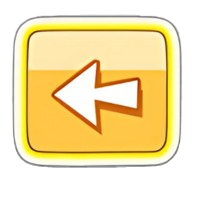
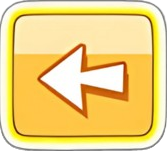
added menu screen

diff --git a/core/src/main/java/io/github/angry_birds/levelbg.java b/core/src/main/java/io/github/angry_birds/levelbg.java
@@ -1,92 +1,138 @@
 package io.github.angry_birds;
-
 import com.badlogic.gdx.Gdx;
 import com.badlogic.gdx.Screen;
 import com.badlogic.gdx.audio.Sound;
 import com.badlogic.gdx.graphics.GL20;
 import com.badlogic.gdx.graphics.OrthographicCamera;
 import com.badlogic.gdx.graphics.Texture;
+import com.badlogic.gdx.graphics.g2d.BitmapFont;
 import com.badlogic.gdx.graphics.g2d.SpriteBatch;
+import com.badlogic.gdx.graphics.g2d.TextureRegion;
+import com.badlogic.gdx.math.Vector3;
+import com.badlogic.gdx.scenes.scene2d.InputEvent;
+import com.badlogic.gdx.scenes.scene2d.Stage;
+import com.badlogic.gdx.scenes.scene2d.ui.*;
+import com.badlogic.gdx.scenes.scene2d.utils.ClickListener;
+import com.badlogic.gdx.scenes.scene2d.utils.TextureRegionDrawable;
+import com.badlogic.gdx.utils.viewport.FitViewport;
 import com.badlogic.gdx.utils.viewport.Viewport;
 
 public class levelbg implements Screen {
-    private Main game;
+    private final Main game;
+    private Texture Background;
     private Texture levelbgsand;
-    private Texture levelbgdunes;
-    private Texture purple1;
-    private Texture purple2;
-    private Texture purple3;
+    private Texture menubutton;
     private SpriteBatch batch;
     private OrthographicCamera camera;
     private Texture backbutton;
+    private Texture reload;
     private Viewport viewport;
-    private Sound sound;
-
+    private final Sound sound;
+    private final Vector3 touchPos;
+    private Stage stage;
+    private Window window;
+    private Texture mainbutton;
 
 
     public levelbg(Main game,Sound asound) {
         this.game = game;
         sound = asound;
         sound.stop();
+        touchPos=new Vector3();
     }
 
     @Override
     public void show() {
         batch = new SpriteBatch();
-        levelbgsand = new Texture("ui/levelbgsand.png");
-       levelbgdunes = new Texture("ui/dunes.png");
-       purple1 = new Texture("ui/purple1.png");
-       purple2 = new Texture("ui/purple2.png");
-       purple3 = new Texture("ui/purple3.png");
-       backbutton = new Texture("ui/back_button.png");
+        Background = new Texture(Gdx.files.internal("ui/screen.png"));
+        levelbgsand = new Texture("ui/menu_background.png");
+        backbutton = new Texture("ui/backnew.png");
+        mainbutton = new Texture("ui/menuescreen.png");
+        menubutton = new Texture("ui/menubutton.png");
+        reload=new Texture("ui/restart.png") ;
         camera = new OrthographicCamera();
-        camera.setToOrtho(false, Gdx.graphics.getWidth(), Gdx.graphics.getHeight());
+        viewport = new FitViewport(1600, 900, camera);
+        camera.position.set(1600 / 2f, 900 / 2f, 0);
         camera.update();
+        stage=new Stage(viewport,batch);
+        Gdx.input.setInputProcessor(stage);
+        Skin skin = new Skin(Gdx.files.internal("uiskin.json"));
 
+        Window.WindowStyle windowStyle = new Window.WindowStyle();
+        TextureRegionDrawable menuBackground = new TextureRegionDrawable(new TextureRegion(Background));
+        windowStyle.background=menuBackground;
+        BitmapFont font = new BitmapFont();
+        windowStyle.titleFont = font;
+
+        window=new Window("",windowStyle);
+        window.setSize(618,436);
+        window.setVisible(false);
+        window.setPosition((1600-618) / 2f , (900-436) / 2f);
+
+        ImageButton.ImageButtonStyle resumeButtonStyle = new ImageButton.ImageButtonStyle();
+        resumeButtonStyle.imageUp = new TextureRegionDrawable(new TextureRegion(mainbutton));  // Set the up state image
+
+        ImageButton.ImageButtonStyle quitButtonStyle = new ImageButton.ImageButtonStyle();
+        quitButtonStyle.imageUp = new TextureRegionDrawable(new TextureRegion(reload));  // Set the up state image
+        ImageButton resumeButton = new ImageButton(resumeButtonStyle);
+        ImageButton quitButton = new ImageButton(quitButtonStyle);
+        window.add(resumeButton).pad(10).size(reload.getWidth(), reload.getHeight());
+        window.add(quitButton).pad(10);
+        resumeButton.addListener(new ClickListener() {
+            @Override
+            public void clicked(InputEvent event, float x, float y) {
+                window.setVisible(false);  // Close the menu on "Resume"
+                Gdx.input.setInputProcessor(null);  // Reset input processor
+            }
+        });
+
+        quitButton.addListener(new ClickListener() {
+            @Override
+            public void clicked(InputEvent event, float x, float y) {
+                game.setScreen(new MenuScreen(game));  // Go back to main menu on "Quit"
+            }
+        });
+
+        stage.addActor(window);
     }
 
     @Override
-    public void render(float v) {
+    public void render(float delta) {
         Gdx.gl.glClearColor(0, 0, 0, 1);
         Gdx.gl.glClear(GL20.GL_COLOR_BUFFER_BIT);
-
         batch.setProjectionMatrix(camera.combined);
         batch.begin();
-
-
-        batch.draw(purple1, 0, 400,400 , 300);
-        batch.draw(purple1, 350, 400,400 , 300);
-        batch.draw(purple1, 700, 400,400 , 300);
-        batch.draw(purple1, 1050, 400,400 , 300);
-        batch.draw(purple1, 1400, 400,400 , 300);
-        batch.draw(purple1, 1750, 400,400 , 300);
-
-        batch.draw(purple2, 0, 550,400 , 300);
-        batch.draw(purple2, 350, 550,400 , 300);
-        batch.draw(purple2, 700, 550,400 , 300);
-        batch.draw(purple2, 1050, 550,400 , 300);
-        batch.draw(purple2, 1400, 550,400 , 300);
-        batch.draw(purple2, 1750, 550,400 , 300);
-
-        batch.draw(purple3, 0, 750,400 , 400);
-        batch.draw(purple3, 350, 750,400 , 400);
-        batch.draw(purple3, 700, 750,400 , 400);
-        batch.draw(purple3, 1050, 750,400 , 400);
-        batch.draw(purple3, 1400, 750,400 , 400);
-        batch.draw(purple3, 1750, 750,400 , 400);
-
-        batch.draw(levelbgdunes, 0, 200,1920 , 300);
-        batch.draw(levelbgsand, 0, 0,1920 , 200);
-        batch.draw(levelbgsand, 0, 90,1920 , 200);
-        batch.draw(backbutton, 1700, 880, 75, 75);
+        float scaledExitButtonWidth = (float) backbutton.getWidth() / 2;
+        float scaledExitButtonHeight = (float) backbutton.getHeight() / 2;
+        batch.draw(levelbgsand,0,0,1790f,viewport.getWorldHeight());
+        batch.draw(backbutton, 50, 40, scaledExitButtonWidth, scaledExitButtonHeight);
+        batch.draw(menubutton, 50, 900 - 40 - menubutton.getHeight(), menubutton.getWidth(), menubutton.getHeight());
 
         batch.end();
+        if (Gdx.input.justTouched()) {
+            float x = Gdx.input.getX();
+            float y = Gdx.input.getY();
+            camera.unproject(touchPos.set(x, y, 0f), viewport.getScreenX(), viewport.getScreenY(), viewport.getScreenWidth(), viewport.getScreenHeight());
+            if (touchPos.x >= 50 && touchPos.x <= 150 && touchPos.y >= 50 && touchPos.y <= 150) {
+                this.dispose();
+                game.setScreen(new MenuScreen(game));
+            }
+            if (touchPos.x >= 50 && touchPos.x <= 150 && touchPos.y >= 900-40- menubutton.getHeight() && touchPos.y <= 900-40) {
+                window.setVisible(true);
+                Gdx.input.setInputProcessor(stage);
+
+            }
+        }
+
+        stage.act(delta);
+        stage.draw();
+
     }
 
     @Override
     public void resize(int width, int height) {
-        camera.setToOrtho(false, width, height);
-        camera.update();
+        viewport.update(width, height);
+        stage.getViewport().update(width, height, true);
     }
 
     @Override
@@ -101,10 +147,12 @@ public class levelbg implements Screen {
     @Override
     public void dispose() {
         levelbgsand.dispose();
-        levelbgdunes.dispose();
-        purple1.dispose();
         batch.dispose();
         sound.dispose();
+        backbutton.dispose();
+        menubutton.dispose();
+        Background.dispose();
+        stage.dispose();
     }
 
 

diff --git a/core/src/main/java/io/github/angry_birds/MenuScreen.java b/core/src/main/java/io/github/angry_birds/MenuScreen.java
@@ -78,7 +78,7 @@ public class MenuScreen implements Screen {
     @Override
     public void show() {
         batch = new SpriteBatch();
-        background = new Texture(Gdx.files.internal("ui/menu_background.png"));
+        background = new Texture(Gdx.files.internal("ui/newback.jpeg"));
         layer1 = new Texture(Gdx.files.internal("ui/layer1.png"));
         backbutton = new Texture(Gdx.files.internal("ui/backnew.png"));
         asteroid1 = new Texture(Gdx.files.internal("ui/asteroid1.png"));
@@ -98,7 +98,7 @@ public class MenuScreen implements Screen {
 
         // Set asteroid starting positions
         asteroid1X = -asteroid1.getWidth();  // Start off-screen to the left
-        asteroid1Y = ((screenHeight - asteroid1.getHeight()) / 2) + 100; // Vertically centered
+        asteroid1Y = ((screenHeight - asteroid1.getHeight()) / 2) + 15; // Vertically centered
 
         asteroid2X = -asteroid2.getWidth() - 100;  // Start off-screen to the left
         asteroid2Y = 700; // Vertically centered
@@ -137,12 +137,7 @@ public class MenuScreen implements Screen {
 
         // Draw background
         batch.draw(background, 0, 0, viewport.getWorldWidth(), viewport.getWorldHeight());
-        batch.draw(world1,300f,300f,0.9f*world1.getWidth(),0.9f*world1.getHeight());
-        batch.draw(world2,700f,300f,0.9f*world1.getWidth(),0.9f*world1.getHeight());
-        batch.draw(world3,1100f,300f,0.9f*world1.getWidth(),0.9f*world1.getHeight());
-        batch.draw(worldboundary1,273f,277f,1.1f*world1.getWidth(),1.1f*world1.getHeight());
-        batch.draw(worldboundary1,673f,277f,1.1f*world1.getWidth(),1.1f*world1.getHeight());
-        batch.draw(worldboundary1,1073f,277f,1.1f*world1.getWidth(),1.1f*world1.getHeight());
+
         // Draw layer1 at the bottom
 //        for (int i = 0; i <= screenWidth; i += 350) {
 //            batch.draw(layer1, i, 0, 350, 200);
@@ -164,6 +159,12 @@ public class MenuScreen implements Screen {
             0, 0, asteroid1.getWidth(), asteroid1.getHeight(),
             false, false);
 
+        batch.draw(world1,300f,300f,0.9f*world1.getWidth(),0.9f*world1.getHeight());
+        batch.draw(world2,700f,300f,0.9f*world1.getWidth(),0.9f*world1.getHeight());
+        batch.draw(world3,1100f,300f,0.9f*world1.getWidth(),0.9f*world1.getHeight());
+        batch.draw(worldboundary1,273f,277f,1.1f*world1.getWidth(),1.1f*world1.getHeight());
+        batch.draw(worldboundary1,673f,277f,1.1f*world1.getWidth(),1.1f*world1.getHeight());
+        batch.draw(worldboundary1,1073f,277f,1.1f*world1.getWidth(),1.1f*world1.getHeight());
         // Update and draw asteroid2 (move right, rotate clockwise)
         asteroid2X += asteroid2SpeedX * delta;
         if (asteroid2X > screenWidth) {
@@ -232,22 +233,16 @@ public class MenuScreen implements Screen {
     }
 
     @Override
-    public void resize(int width, int height) {
-        viewport.update(width, height);
-    }
+    public void resize(int width, int height) {viewport.update(width, height);}
 
     @Override
-    public void pause() {
-    }
+    public void pause() {}
 
     @Override
-    public void resume() {
-    }
+    public void resume() {}
 
     @Override
-    public void hide() {
-        dispose();
-    }
+    public void hide() {dispose();}
 
     @Override
     public void dispose() {
@@ -260,5 +255,9 @@ public class MenuScreen implements Screen {
         layer1.dispose();
         backbutton.dispose();
         asteroid1.dispose();
+        world1.dispose();
+        world2.dispose();
+        world3.dispose();
+        worldboundary1.dispose();
     }
 }

diff --git a/core/src/main/java/io/github/angry_birds/pausemenue.java b/core/src/main/java/io/github/angry_birds/pausemenue.java
@@ -1,0 +1,95 @@
+package io.github.angry_birds;
+
+import com.badlogic.gdx.Gdx;
+import com.badlogic.gdx.Screen;
+import com.badlogic.gdx.graphics.OrthographicCamera;
+import com.badlogic.gdx.graphics.Texture;
+import com.badlogic.gdx.graphics.g2d.SpriteBatch;
+import com.badlogic.gdx.graphics.glutils.ShapeRenderer;
+import com.badlogic.gdx.math.Vector3;
+import com.badlogic.gdx.utils.viewport.FitViewport;
+import com.badlogic.gdx.utils.viewport.Viewport;
+
+
+public class pausemenue implements Screen {
+    private final Main game;
+    private Texture background;
+    private Texture backbutton;
+    private SpriteBatch batch;
+    private OrthographicCamera camera;
+    private ShapeRenderer shapeRenderer;
+    private Viewport viewport;
+    private Vector3 touchPos;
+    private static final float WORLD_WIDTH = 1600;
+    private static final float WORLD_HEIGHT = 900;
+    private final levelbg alevelbg;
+
+    public pausemenue(Main game,levelbg levelbg) {
+        this.game = game;
+        alevelbg=levelbg;}
+
+    @Override
+    public void show() {
+        batch = new SpriteBatch();
+        background = new Texture(Gdx.files.internal("ui/screen.png"));
+        backbutton= new Texture(Gdx.files.internal("ui/backnew.png"));
+        camera = new OrthographicCamera();
+        viewport = new FitViewport(WORLD_WIDTH, WORLD_HEIGHT, camera);
+        viewport.apply();
+        camera.position.set(WORLD_WIDTH / 2, WORLD_HEIGHT / 2, 0);
+        camera.update();
+        shapeRenderer = new ShapeRenderer();
+        touchPos=new Vector3();
+    }
+
+    @Override
+    public void render(float delta) {
+
+        camera.update();
+        batch.setProjectionMatrix(camera.combined);
+        batch.begin();
+
+        float playButtonX = (WORLD_WIDTH - background.getWidth()) / 2;
+        float playButtonY = (WORLD_HEIGHT - background.getHeight()) / 2;
+        batch.draw(background, playButtonX, playButtonY, background.getWidth(), background.getHeight());
+        batch.draw(backbutton, playButtonX - 230 + background.getWidth()/2f, playButtonY + backbutton.getHeight()/2f, backbutton.getWidth()/2f,backbutton.getHeight()/2f);
+        batch.draw(backbutton, playButtonX  + background.getWidth()/2f, playButtonY + backbutton.getHeight()/2f, backbutton.getWidth()/2f,backbutton.getHeight()/2f);
+        batch.draw(backbutton, playButtonX + 230 + background.getWidth()/2f, playButtonY + backbutton.getHeight()/2f, backbutton.getWidth()/2f,backbutton.getHeight()/2f);
+        batch.end();
+        if (Gdx.input.justTouched()) {
+            float x = Gdx.input.getX();
+            float y = Gdx.input.getY();
+            System.out.println(x+"\t"+y);
+            camera.unproject(touchPos.set(x, y, 0f), viewport.getScreenX(), viewport.getScreenY(), viewport.getScreenWidth(), viewport.getScreenHeight());
+            if (touchPos.x >=50  && touchPos.x <= 150 && touchPos.y >= 50 && touchPos.y <= 150) {
+                game.setScreen(alevelbg);
+            }
+        }
+    }
+
+    @Override
+    public void resize(int width, int height) {viewport.update(width, height);}
+
+    @Override
+    public void pause() {}
+
+    @Override
+    public void resume() {}
+
+    @Override
+    public void hide() {dispose();}
+
+    @Override
+    public void dispose() {
+        background.dispose();
+        batch.dispose();
+        shapeRenderer.dispose();
+        background.dispose();
+        backbutton.dispose();
+    }
+
+
+}
+
+
+

diff --git a/lwjgl3/src/main/java/io/github/angry_birds/lwjgl3/Lwjgl3Launcher.java b/lwjgl3/src/main/java/io/github/angry_birds/lwjgl3/Lwjgl3Launcher.java
@@ -1,5 +1,4 @@
 package io.github.angry_birds.lwjgl3;
-
 import com.badlogic.gdx.backends.lwjgl3.Lwjgl3Application;
 import com.badlogic.gdx.backends.lwjgl3.Lwjgl3ApplicationConfiguration;
 import io.github.angry_birds.Main;
